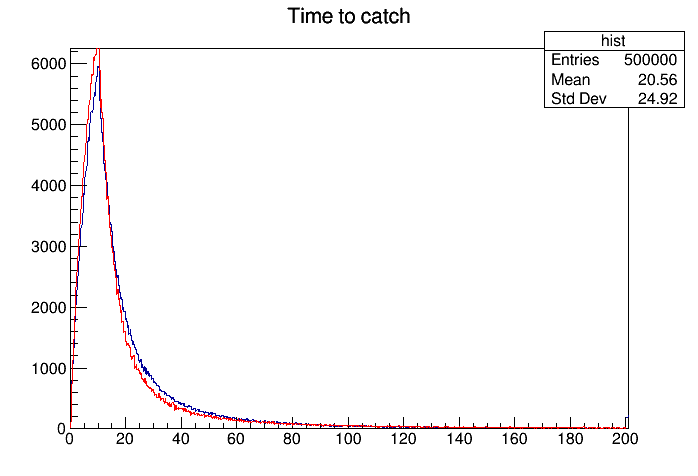
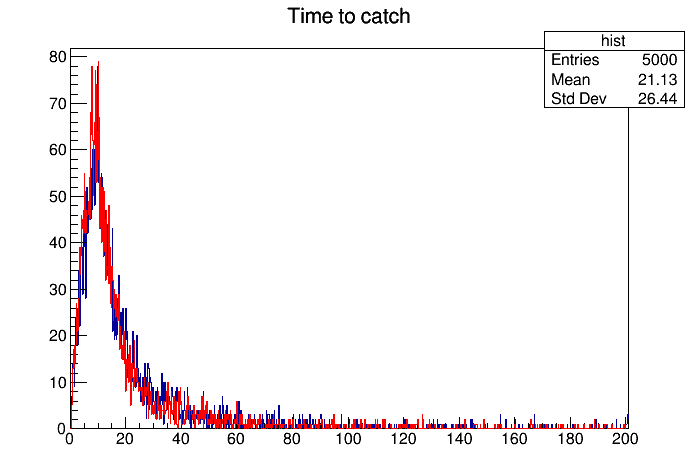
removed global variable THRESHOLD from particles

Changed region(s): [[0.0301, 0.0882, 0.9026, 0.9118], [0.9026, 0.1176, 0.9628, 0.2353]]

diff --git a/learningroot/particles/particles.cpp b/learningroot/particles/particles.cpp
@@ -2,7 +2,7 @@
 #include <string>
 #include <cstring>
 #include <cmath>
-#include "threedpolygon2.cpp"
+#include "threedgeometry.cpp"
 #include <tbb/tbb.h>
 //requires source /opt/intel/oneapi/tbb/latest/env/vars.sh
 #include <chrono>
@@ -345,10 +345,11 @@ class Tile
                 //inaccuracies in calculating dt may cause particle to be outside after moving by dt.
                 //to avoid this we use following while loop, which in extreme cases will even back the particle up using negative dt
                 //mostly affects small dt, so 2 reflections in a row, or iterations over small times such as by Animate()
+                double smallt = 0.00001*dt;
                 ROOT::Math::XYZPoint projection2 = particle->Project(dt);
                 while (!m_scintillator->HasInsideStrict(&projection2))
                 {
-                    dt = dt-THRESHOLD;
+                    dt = dt-smallt;
                     projection2 = particle->Project(dt);
                 };
                 particle->Move(dt);
@@ -362,8 +363,8 @@ class Tile
                 //*/
                 ROOT::Math::XYZVector normal = m_scintillator->Normal(&bounce_point);
                 particle->Reflect(&normal);
-                if (dt +THRESHOLD >= time) {break;};
                 time = time - dt;
+                if (time < 0) return;
                 projection = particle->Project(time);
             };
             particle->Move(time);
@@ -453,7 +454,7 @@ class Detector
 
 
 
-void particles2()
+void particles()
 {
 
     auto mycanvas = new TCanvas();
@@ -463,9 +464,9 @@ void particles2()
     rulers->SetAxisColor(kBlue, "Z");
     rulers->Draw();
 
-/*
+///*
     auto tile = new Tile(0,0,0,0,0,0, true);
-    double half_photons = 250000;
+    double half_photons = 2500;
     std::default_random_engine generator;
     std::normal_distribution<double> distribution(0.0,1.0);
     for (int i = -half_photons; i < half_photons; ++i)
@@ -511,13 +512,13 @@ void particles2()
     hist1->SetColors(kRed);
     hist1->Draw("same");
     mycanvas->SaveAs("./Signal.png");
-*/
-    ///*
+//*/
+    /*
     auto a = MakeBrick(350,350,350, 0,0,0);
     a->DrawWires();
     Detector detector;
     detector.Draw();
-    //*/
+    */
 
 };
 

diff --git a/learningroot/particles/threedgeometry.cpp b/learningroot/particles/threedgeometry.cpp
@@ -644,7 +644,7 @@ void threedpolygon2()
 
 
 ///* //Draw a Cube with corners cut off by planes
-void threedpolygon2()
+void threedpolygon()
 {
     ROOT::Math::XYZPoint p1(0,0,-2);
     ROOT::Math::XYZPoint p2(0,0,2);
